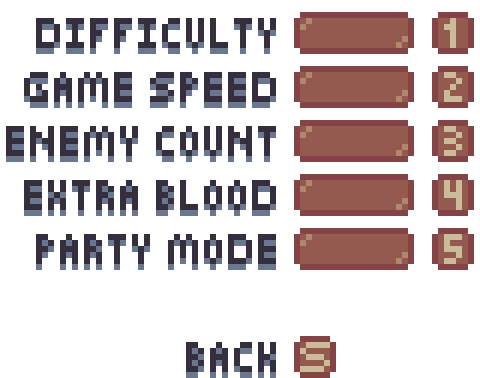
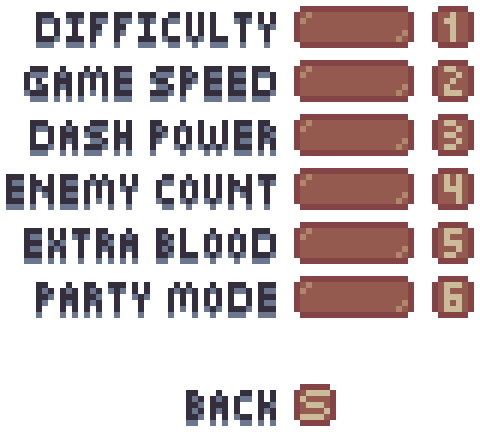
Added dashpower, updated partymode

diff --git a/Panel.java b/Panel.java
@@ -61,12 +61,14 @@ public class Panel extends JPanel implements Runnable, KeyListener {
 
     // Buttons Imgs set up later on.
     static Image buttonsImg, deathButtonsImg, winButtonsImg, winButtonsDarkImg, menuButtonsImg, settingsButtonsImg,
-            settingsDifficultyImg, settingsGameSpeedImg, settingsEnemyCountImg, settingsExtraBloodImg,
+            settingsDifficultyImg, settingsGameSpeedImg, settingsDashPowerImg, settingsEnemyCountImg,
+            settingsExtraBloodImg,
             settingsPartyModeImg;
 
     // Integers.
     static int difficulty = 1; // Ranges between 0 and 2. 1 Default.
     static int gameSpeed = 1;
+    static int dashPower = 1;
     static int enemyCount = 1;
     static int selection = 0; // Controlls highlight on buttons.
 
@@ -371,7 +373,7 @@ public class Panel extends JPanel implements Runnable, KeyListener {
                 (int) (Math.sin((float) gameTime / 15) * PIXEL * 4) - CHUNK / 4, null);
         g2D.drawImage(partyTextImg, 0, (int) (Math.sin((float) gameTime / 15) * PIXEL * 4) - CHUNK / 4, null);
 
-        if (difficulty == 2 && gameSpeed == 2 && enemyCount == 2)
+        if (difficulty == 2 && gameSpeed == 2 && dashPower == 0 && enemyCount == 2)
             rainbow = new Color((float) Math.abs(Math.sin((float) gameTime / 10)), 0f, 0f);
         else if (difficulty == 2) // Hard mode gives flashing red lights.
             rainbow = new Color((float) Math.abs(Math.sin((float) gameTime / 30)),
@@ -476,17 +478,18 @@ public class Panel extends JPanel implements Runnable, KeyListener {
             if (settings) { // Displaying all settings options.
                 if (selection != 0) // Display selection outlinearound button just pressed for settings.
                     g2D.drawImage(selectionImg, CHUNK * 13 + PIXEL * 13 + 2,
-                            CHUNK + PIXEL * 13 + (selection - 1) * 54, null);
+                            CHUNK + PIXEL * 5 + (selection - 1) * 54, null);
 
                 g2D.drawImage(settingsButtonsImg, WIDTH / 2 - settingsButtonsImg.getWidth(null) / 2,
-                        HEIGHT / 2 - settingsButtonsImg.getHeight(null) / 2 - 1,
+                        HEIGHT / 2 - settingsButtonsImg.getHeight(null) / 2,
                         null);
 
-                g2D.drawImage(settingsDifficultyImg, CHUNK * 11 + PIXEL * 11, CHUNK + PIXEL * 13, null);
-                g2D.drawImage(settingsGameSpeedImg, CHUNK * 11 + PIXEL * 11, CHUNK * 2 + PIXEL * 10 + 2, null);
-                g2D.drawImage(settingsEnemyCountImg, CHUNK * 11 + PIXEL * 11, CHUNK * 3 + PIXEL * 8, null);
-                g2D.drawImage(settingsExtraBloodImg, CHUNK * 11 + PIXEL * 11, CHUNK * 4 + PIXEL * 5 + 2, null);
-                g2D.drawImage(settingsPartyModeImg, CHUNK * 11 + PIXEL * 11, CHUNK * 5 + PIXEL * 3, null);
+                g2D.drawImage(settingsDifficultyImg, CHUNK * 11 + PIXEL * 11, CHUNK + PIXEL * 5, null);
+                g2D.drawImage(settingsGameSpeedImg, CHUNK * 11 + PIXEL * 11, CHUNK * 2 + PIXEL * 2 + 2, null);
+                g2D.drawImage(settingsDashPowerImg, CHUNK * 11 + PIXEL * 11, CHUNK * 3, null);
+                g2D.drawImage(settingsEnemyCountImg, CHUNK * 11 + PIXEL * 11, CHUNK * 3 + PIXEL * 13 + 2, null);
+                g2D.drawImage(settingsExtraBloodImg, CHUNK * 11 + PIXEL * 11, CHUNK * 4 + PIXEL * 11, null);
+                g2D.drawImage(settingsPartyModeImg, CHUNK * 11 + PIXEL * 11, CHUNK * 5 + PIXEL * 8 + 2, null);
             } else {
                 g2D.drawImage(menuButtonsImg, WIDTH / 2 - menuButtonsImg.getWidth(null) / 2,
                         HEIGHT / 2 + menuButtonsImg.getHeight(null) + CHUNK * 3 + parallax - parallaxMax
@@ -542,6 +545,18 @@ public class Panel extends JPanel implements Runnable, KeyListener {
                 break;
             case 2:
                 settingsGameSpeedImg = new ImageIcon("fastButton.png").getImage();
+                break;
+        }
+
+        switch (dashPower) {
+            case 0:
+                settingsDashPowerImg = new ImageIcon("lowButton.png").getImage();
+                break;
+            case 1:
+                settingsDashPowerImg = new ImageIcon("normButton.png").getImage();
+                break;
+            case 2:
+                settingsDashPowerImg = new ImageIcon("highButton.png").getImage();
                 break;
         }
 
@@ -1256,19 +1271,26 @@ public class Panel extends JPanel implements Runnable, KeyListener {
                         selection = 2;
                         break;
                     case 51:
+                        if (dashPower < 2)
+                            dashPower++;
+                        else
+                            dashPower = 0;
+                        selection = 3;
+                        break;
+                    case 52:
                         if (enemyCount < 2)
                             enemyCount++;
                         else
                             enemyCount = 0;
-                        selection = 3;
-                        break;
-                    case 52:
-                        extraBlood = !extraBlood;
                         selection = 4;
                         break;
                     case 53:
-                        partyMode = !partyMode;
+                        extraBlood = !extraBlood;
                         selection = 5;
+                        break;
+                    case 54:
+                        partyMode = !partyMode;
+                        selection = 6;
                         break;
                 }
         }
@@ -1335,6 +1357,7 @@ public class Panel extends JPanel implements Runnable, KeyListener {
     public void applySettings() { // Initiates settings.
         scaleDifficulty();
         scaleGameSpeed();
+        scaleDashPower();
         scaleEnemyCount();
         toggleExtraBlood();
         togglePartyMode();
@@ -1373,6 +1396,15 @@ public class Panel extends JPanel implements Runnable, KeyListener {
         if (gameSpeed == 2)
             ticks = 80.0;
         ns = 1000000000 / ticks;
+    }
+
+    public void scaleDashPower() {
+        if (dashPower == 0)
+            dashSpeedMax = playerSpeed * 3 / 2;
+        if (dashPower == 1)
+            dashSpeedMax = playerSpeed * 5 / 2;
+        if (dashPower == 2)
+            dashSpeedMax = playerSpeed * 4;
     }
 
     public void scaleEnemyCount() {
@@ -1430,7 +1462,7 @@ public class Panel extends JPanel implements Runnable, KeyListener {
                 dashBarRed = false;
                 dashButtonPushed = false;
                 break;
-            case 49, 50, 51, 52, 53:
+            case 49, 50, 51, 52, 53, 54:
                 selection = 0;
                 break;
         }

diff --git a/Enemy.java b/Enemy.java
@@ -211,7 +211,7 @@ public class Enemy {
 
         if (isBoss || level == 3) // Boss and mummies has double view distance.
             viewCol = new Rectangle(col.x - viewDistance * 2, col.y, col.width + viewDistance * 4, col.height);
-        else if (level == 4) // Level 4 enemies sans boss have small view distance.
+        else if (level == 4 || level == 2) // Level 4 enemies sans boss have small view distance.
             viewCol = new Rectangle(col.x - viewDistance / 2, col.y, col.width + viewDistance, col.height);
         else // Other enemies have normal view distance.
             viewCol = new Rectangle(col.x - viewDistance, col.y, col.width + viewDistance * 2, col.height);
